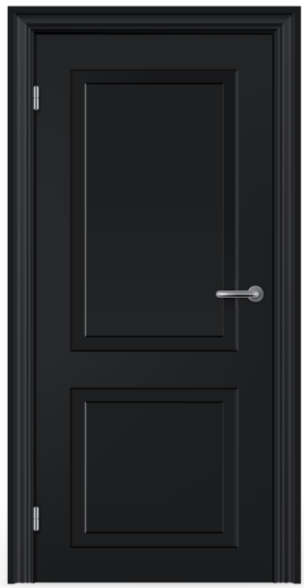
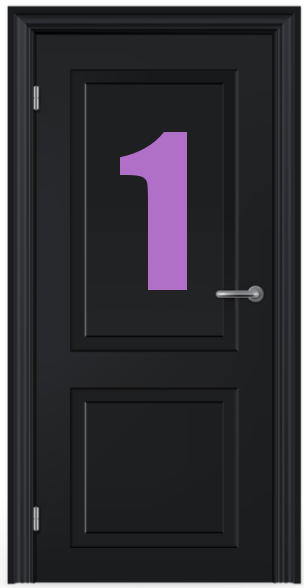
Added numbers to doors and changed some colors

Changed region(s): [[0.3849, 0.2143, 0.6217, 0.5204]]

diff --git a/src/Sim.java b/src/Sim.java
@@ -1,7 +1,6 @@
 /**
  * Created by Heather on 5/6/17.
  */
-//import com.sun.org.glassfish.external.statistics.Stats;
 
 import javax.swing.Icon;
 import javax.swing.ImageIcon;
@@ -21,11 +20,8 @@ public class Sim extends JApplet {
     public static final String gamePan = "Game";
     public static final String statsPan = "Statistics";
     public static int num_games = 0;
-    public static Color brown = new Color(213,196,174);
-    public static Color lightBrown = new Color(244,236,226);
-    public static Color grey = new Color(227,230,228);
     public static Color lightBlue = new Color(190,226,228);
-    public static Color oceanBlue = new Color(111,211,223);
+    public static Color oceanBlue = new Color(70,183,196);
     public static Color bloodRed = new Color(150,0,0);
 
     public void init() {

diff --git a/src/GamePanel.java b/src/GamePanel.java
@@ -186,7 +186,7 @@ public class GamePanel extends JPanel {
     public void askContestant(int i) {
         question = new JLabel("You chose DOOR " + (i+1) + ". You can switch or stay.", SwingConstants.CENTER);
         question.setFont(new Font("Impact", Font.BOLD, 26));
-        question.setForeground(new Color(46,136,86));
+        question.setForeground(new Color(176,112,200));
         question.setVisible(true);
         add(question);
         validate();
